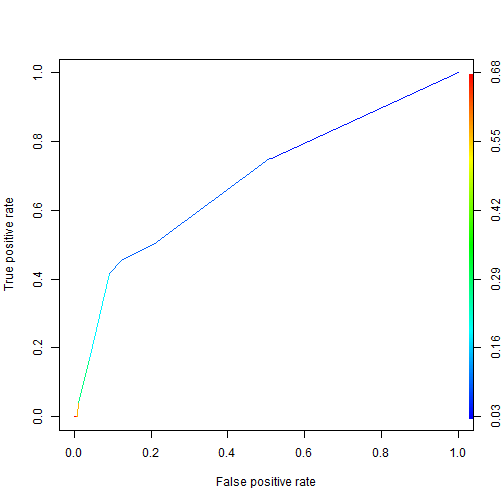
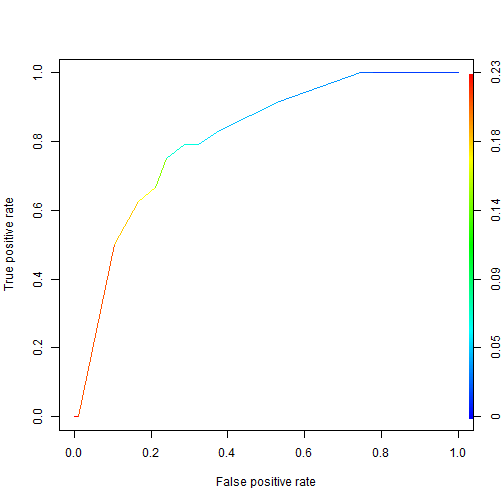
Updated ROC for tree model.

diff --git a/5. Tree models/notes.html b/5. Tree models/notes.html
@@ -3,6 +3,7 @@
 <html>
 <head>
 <meta http-equiv="Content-Type" content="text/html; charset=utf-8"/>
+<meta http-equiv="x-ua-compatible" content="IE=9" >
 
 <title>Tree Models</title>
 
@@ -255,7 +256,7 @@ credit.test = read.csv(&quot;http://homepages.uc.edu/~maifg/7040/credit.test.csv
 </code></pre>
 
 <pre><code class="r">plot(boston.rpart)
-text(boston.rpart)
+text(boston.rpart, pretty = TRUE)
 </code></pre>
 
[1 lines of base64/hex data omitted]
@@ -348,7 +349,7 @@ If you have symmetric cost, you can ignore the parms argument.</p></li>
 </code></pre>
 
 <pre><code class="r">plot(credit.rpart)
-text(credit.rpart)
+text(credit.rpart, pretty = TRUE)
 </code></pre>
 
[1 lines of base64/hex data omitted]
@@ -422,8 +423,8 @@ table(credit.test$Y, credit.test.pred.glm, dnn = c(&quot;Truth&quot;, &quot;Pred
 
 <p>To get ROC curve, we first fit a tree without the loss matrix, then get the predicted probability of Y being 1. The additional cp parameter controls the complexity of tree. Here we change it from its default 0.01 to a smaller value to grow a more complex tree than just the root node (if you use the default the tree you get will tell you to clasify everything as 0). More discussion on this in the next section. </p>
 
-<pre><code class="r">credit.rpart2 &lt;- rpart(formula = Y ~ . - id - X9, data = credit.train, method = &quot;class&quot;, 
-    cp = 5e-04)
+<pre><code class="r">credit.rpart2 &lt;- rpart(formula = Y ~ . - id, data = credit.train, method = &quot;class&quot;, 
+    parms = list(loss = matrix(c(0, 10, 1, 0), nrow = 2)))
 # Probability of getting 1
 credit.test.prob.rpart2 = predict(credit.rpart2, credit.test, type = &quot;prob&quot;)
 </code></pre>
@@ -443,14 +444,14 @@ perf = performance(pred, &quot;tpr&quot;, &quot;fpr&quot;)
 plot(perf, colorize = TRUE)
 </code></pre>
 
[2 lines of base64/hex data omitted]
 
 <p>Area under the curve is given by (do not worry about the syntax here):</p>
 
 <pre><code class="r">slot(performance(pred, &quot;auc&quot;), &quot;y.values&quot;)[[1]]
 </code></pre>
 
-<pre><code>## [1] 0.6903449
+<pre><code>## [1] 0.8105742
 </code></pre>
 
 <p>For a given cut-off probability, the 0/1 prediction result can be calculated similar to what you do in logistic regression</p>
@@ -461,8 +462,8 @@ table(credit.test$Y, credit.test.pred.rpart2, dnn = c(&quot;Truth&quot;, &quot;P
 
 <pre><code>##      Predicted
 ## Truth   0   1
-##     0 432  44
-##     1  14  10
+##     0 376 100
+##     1   8  16
 </code></pre>
 
 <p>If you know the cost structure of mis-classification, there is usually no need to search for an optimal cut-off probability as we did in the logistic regression. You can refer to the last section on specifying a loss matrix, rpart will automatically generate decision rules with your cost structure taken into consideration.</p>
@@ -502,7 +503,7 @@ plot(performance(prediction(bank.pred.prob, bank.test$y), &quot;tpr&quot;, &quot
 <pre><code class="r">plotcp(boston.largetree)
 </code></pre>
 
[2 lines of base64/hex data omitted]
 
 <p>You can observe from the above graph that the cross-validation error (x-val) does not always go down when the tree becomes more complex. The analogy is when you add more variables in a regression model, its ability to predict future observations not necessarily increases. In the Boston housing example, you may conclude that having a tree mode with more than 7-9 splits is not helptul.</p>
 
@@ -523,33 +524,33 @@ plot(performance(prediction(bank.pred.prob, bank.test$y), &quot;tpr&quot;, &quot
 ## n= 455 
 ## 
 ##           CP nsplit rel error  xerror     xstd
-## 1  0.4539587      0   1.00000 1.00380 0.086139
-## 2  0.1820390      1   0.54604 0.59716 0.057973
-## 3  0.0631306      2   0.36400 0.39223 0.043594
-## 4  0.0412226      3   0.30087 0.34614 0.042386
-## 5  0.0256543      4   0.25965 0.30798 0.042494
-## 6  0.0184242      5   0.23399 0.28578 0.040106
-## 7  0.0149444      6   0.21557 0.27626 0.040267
-## 8  0.0093167      7   0.20063 0.26576 0.037323
-## 9  0.0084961      8   0.19131 0.26120 0.037280
-## 10 0.0077094      9   0.18281 0.25677 0.036646
-## 11 0.0059561     10   0.17510 0.25760 0.038310
-## 12 0.0058029     11   0.16915 0.25450 0.038304
-## 13 0.0053250     12   0.16335 0.25449 0.038306
-## 14 0.0047307     13   0.15802 0.24945 0.038019
-## 15 0.0038404     14   0.15329 0.24160 0.037486
-## 16 0.0036881     15   0.14945 0.23216 0.036390
-## 17 0.0018204     16   0.14576 0.22781 0.036879
-## 18 0.0016824     17   0.14394 0.22271 0.034808
-## 19 0.0015845     18   0.14226 0.22312 0.035051
-## 20 0.0014488     19   0.14067 0.22293 0.035046
-## 21 0.0013930     20   0.13922 0.22108 0.035060
-## 22 0.0013722     21   0.13783 0.22143 0.035055
-## 23 0.0012861     22   0.13646 0.22142 0.035053
-## 24 0.0011904     23   0.13517 0.22225 0.035028
-## 25 0.0010880     24   0.13398 0.22210 0.035033
-## 26 0.0010232     25   0.13290 0.22238 0.035039
-## 27 0.0010000     27   0.13085 0.22307 0.035040
+## 1  0.4539587      0   1.00000 1.00292 0.086075
+## 2  0.1820390      1   0.54604 0.66039 0.063500
+## 3  0.0631306      2   0.36400 0.44240 0.052683
+## 4  0.0412226      3   0.30087 0.34791 0.045697
+## 5  0.0256543      4   0.25965 0.33668 0.047413
+## 6  0.0184242      5   0.23399 0.31547 0.047328
+## 7  0.0149444      6   0.21557 0.29871 0.046523
+## 8  0.0093167      7   0.20063 0.28916 0.045873
+## 9  0.0084961      8   0.19131 0.28709 0.045621
+## 10 0.0077094      9   0.18281 0.28597 0.045631
+## 11 0.0059561     10   0.17510 0.28415 0.044796
+## 12 0.0058029     11   0.16915 0.28380 0.043306
+## 13 0.0053250     12   0.16335 0.28001 0.042450
+## 14 0.0047307     13   0.15802 0.27829 0.042463
+## 15 0.0038404     14   0.15329 0.27265 0.042522
+## 16 0.0036881     15   0.14945 0.26819 0.042468
+## 17 0.0018204     16   0.14576 0.25746 0.041722
+## 18 0.0016824     17   0.14394 0.25869 0.040543
+## 19 0.0015845     18   0.14226 0.25761 0.040539
+## 20 0.0014488     19   0.14067 0.25978 0.040593
+## 21 0.0013930     20   0.13922 0.25908 0.040601
+## 22 0.0013722     21   0.13783 0.25657 0.040099
+## 23 0.0012861     22   0.13646 0.25729 0.040126
+## 24 0.0011904     23   0.13517 0.25800 0.040067
+## 25 0.0010880     24   0.13398 0.25954 0.040089
+## 26 0.0010232     25   0.13290 0.25968 0.040082
+## 27 0.0010000     27   0.13085 0.25965 0.040082
 </code></pre>
 
 <p>Root node error is the error when you do not do anything too smart in prediction, in regression case, it is the mean squared error(MSE) if you use the average of medv as the prediction. Note it is the same as</p>
